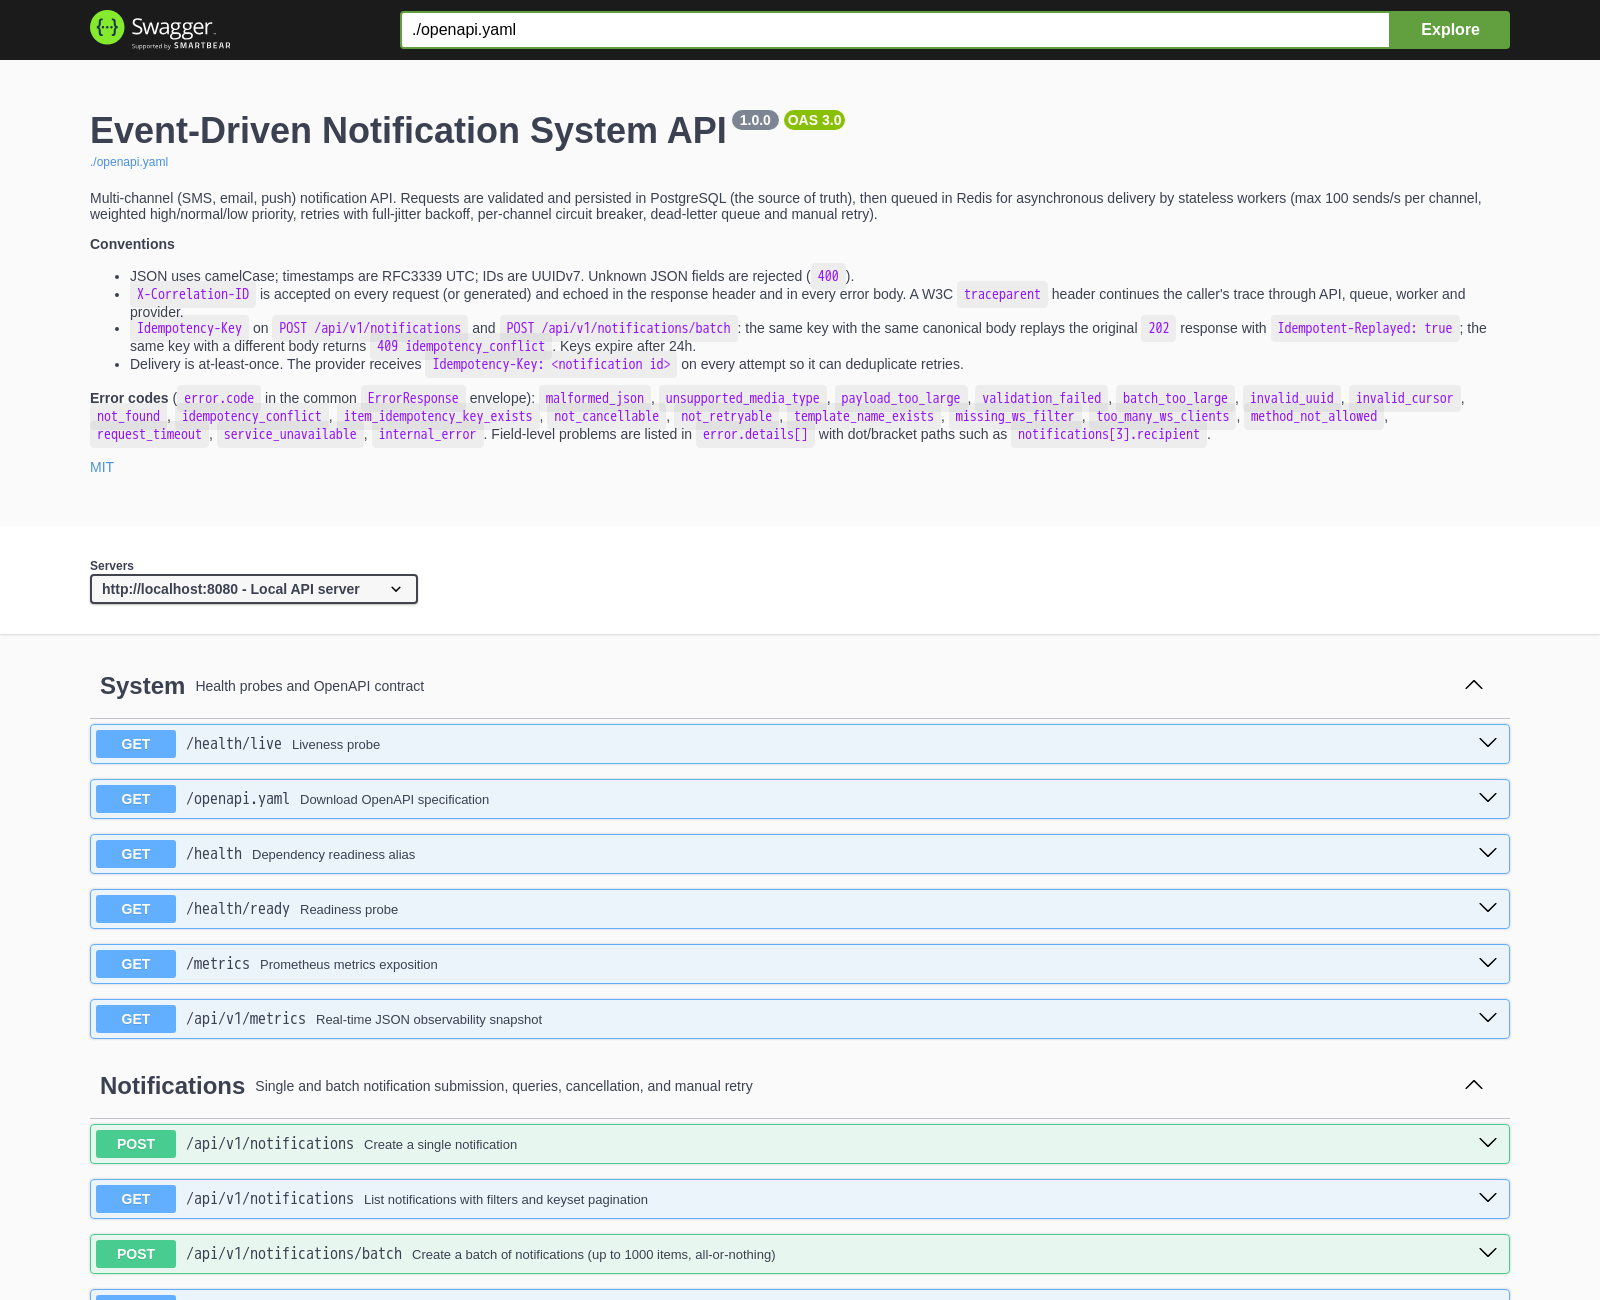
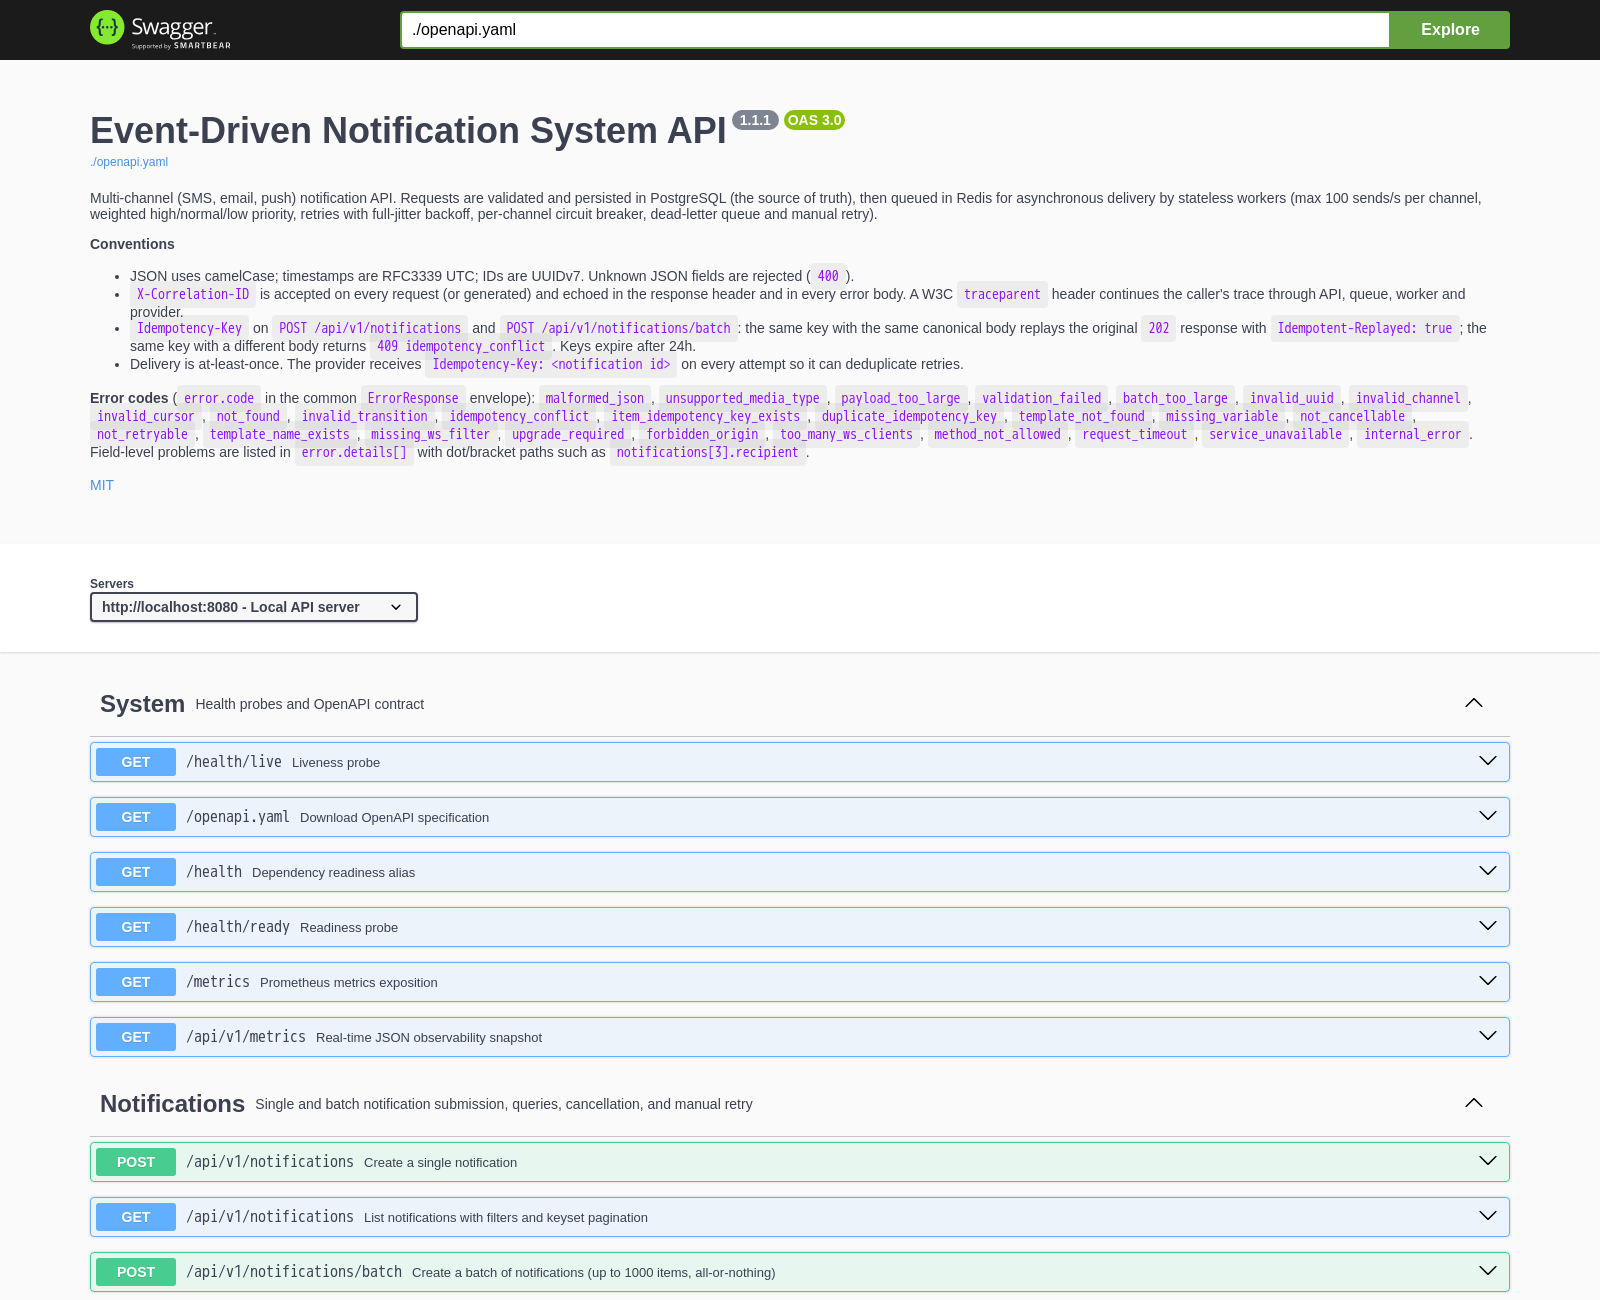
docs: fix the README sequence diagram and render-check all diagrams in CI; add an "At a glance" section; keep CLAUDE.md to the engineering spec
- The notification sequence diagram did not render on GitHub: `;` inside a
  Mermaid sequenceDiagram message is a statement separator. It also showed the
  rate-limit token taken before Claim; it is taken after Claim, right before
  the provider call.
- scripts/check-diagrams.sh renders every README Mermaid block with
  mermaid-cli 11.17.1; it runs as its own CI job, as a verify.sh step and as
  `make diagrams`.
- README opens with "At a glance": run and check commands, the key design
  decisions, and the test results.
- CLAUDE.md now holds only the engineering specification; personal working
  notes live in a local, gitignored file.
- Swagger UI screenshot regenerated from the current 1.1.1 spec.

diff --git a/CLAUDE.md b/CLAUDE.md
@@ -1,11 +1,12 @@
 # CLAUDE.md — Event-Driven Notification System
 
-## Engineering Role & Context
+## Purpose
 
-You are acting as a **Senior Go Engineer, Senior Software Architect, and AI/Engineering Mentor** for the **Insider One Software Engineer Assessment 2026** take-home assignment.
+The engineering specification for this service, written before the code and kept in sync with it.
+Every design decision here must be production-grade, verifiable and defensible in review: clarity,
+observability and explicit failure handling matter as much as throughput and correctness. Section 10
+records decisions that were measured and settled; the README explains the reasoning for readers.
 
-- **Primary Engineer Context:** AI/ML engineer (strong in Python, FastAPI, Docker) writing production Go (`1.2x`) for the first time.
-- **Core Mandate:** Every design decision and line of code must be **production-grade, verifiable, and interview-defensible**—clarity, observability, and explicit failure handling matter as much as throughput and correctness.
 - **Module Path:** `github.com/TITANBGG/notification-system`
 
 ---
@@ -160,7 +161,6 @@ db/queries/         # sqlc queries; sqlc.yaml at repo root
 api/openapi.yaml    # OpenAPI 3.0.3 spec (kept in sync every phase)
 deploy/             # prometheus.yml
 scripts/            # smoke.sh (curl examples for every endpoint)
-.notes/NOTES.md     # Turkish learning notes — in .gitignore, NEVER part of repo
 ```
 
 ### Pre-Approved Libraries
@@ -686,33 +686,19 @@ X-Correlation-ID: 7d3c...
 - **Database Tracing:** `github.com/exaring/otelpgx` on `pgxpool.Config`.
 - **Templates:** Small safe custom renderer (`regex` scan + `strings.Builder`, no `text/template`), soft delete (`deleted_at`), rendered at **create time** (Phase 9).
 - **Worker Tracing Relationship:** For a single notification the worker span is a **CHILD** of the API request span (clean end-to-end demo). For **batch items** the worker starts a **new trace linked** to the batch request span (`queue.Meta.TraceLink`, also derived from `batch_id` when the reconciler rebuilds metadata) — decided 2026-11-21 after measuring one 1,000-item batch trace at 28,013 spans (~145 MB in Jaeger), which made long load tests exhaust Docker Desktop's memory. Jaeger runs with `MEMORY_MAX_TRACES=20000` and `mem_limit: 1536m`.
-- **Learning Notes:** `.notes/NOTES.md` in Turkish, `.gitignore`d, **never** committed or pushed to GitHub.
 
 ---
 
-## 11. Workflow Rules
+## 11. Development Workflow
 
-1. **Scope Discipline:** Work **ONLY** on the active phase requested. Do not jump ahead.
-2. **Pre-Code Plan:** Before writing code in a phase, present a short plan (files to create/change, key decisions) in max 15 lines, then implement without waiting unless something is ambiguous.
-3. **Mandatory Verification:** After coding, **ALWAYS** run:
-   - `gofmt -l .`
-   - `go vet ./...`
-   - `go test -race ./...`
-   - (`golangci-lint run` if installed; integration tests when the phase specifies).
-   - Always show actual command output; never claim `"should work"` without running it.
-4. **API & Smoke Sync:** Every phase that adds or changes an HTTP endpoint must update `api/openapi.yaml` and `scripts/smoke.sh` in the **same** phase.
-5. **Requirement Traceability:** At the end of each phase, list which requirement IDs (`FR-*`, `EXT-1`, `B-*`, `D-*`) were covered and how they were tested.
-6. **Turkish Learning Notes:** Append a section to `.notes/NOTES.md` **IN TURKISH** at the end of each implementation phase (starting Phase 1) containing:
-   - `"Bu fazda ne yaptık"` (short summary)
-   - `"Kullanılan Go kavramları"` with tiny code snippets from our codebase
-   - `"Tasarım kararları ve alternatifleri"` (why X and not Y)
-   - `"Mülakatta sorulabilecek 5 soru ve kısa cevapları"`
-   - `"Kendin dene"` (1–2 small modification exercises)
-7. **Commit Governance:** At the end of each phase, propose 2–5 small **Conventional Commits** (`feat:`, `fix:`, `test:`, `docs:`, `chore:`, `ci:`, `refactor:`) with exact `git` commands. **Do NOT commit until the user explicitly types `"commit"`.** Never commit `.env`, `.notes/`, or secrets.
-8. **Stop-and-Ask Triggers:** Stop and ask the user instead of guessing when:
-   - a requirement is ambiguous;
-   - a change would deviate from `CLAUDE.md`;
-   - a dependency cannot be installed;
-   - a test still fails after 2 fix attempts;
-   - an issue would blow past the phase budget.
-9. **Language Split:** Explanations, discussions, and `.notes/NOTES.md` are written in **Turkish**; all code, comments, commit messages, OpenAPI specs, and `README.md` are written in **English**.
+1. **Verify every change:** `gofmt -l .`, `go vet ./...` (and `-tags=integration`), `golangci-lint run`,
+   `go test -race ./...`, and the integration suite when behavior across PostgreSQL/Redis changes.
+   With only Docker, `./scripts/verify.sh` runs all of it plus a live smoke test. Report actual output;
+   never claim something works without running it.
+2. **API & smoke sync:** any change to an HTTP endpoint updates `api/openapi.yaml` and `scripts/smoke.sh`
+   in the same change (`TestOpenAPISpecMatchesRouter` and Redocly enforce the spec).
+3. **Requirement traceability:** every change states which requirement IDs (`FR-*`, `EXT-1`, `B-*`,
+   `D-*`) it covers and how it was tested; README section 13 is the map.
+4. **Commits:** small Conventional Commits (`feat:`, `fix:`, `test:`, `docs:`, `chore:`, `ci:`,
+   `refactor:`, `perf:`). Never commit `.env` or secrets.
+5. **Language:** code, comments, commit messages, OpenAPI and `README.md` are written in English.

diff --git a/README.md b/README.md
@@ -8,6 +8,25 @@ A notification service that accepts SMS, email and push requests over HTTP, stor
 
 It was written in Go 1.27.4 for the Insider One Software Engineer Assessment 2026. Every functional requirement (`FR-1`…`FR-4`), the provider contract (`EXT-1`), all deliverables (`D-1`…`D-6`) and all six bonus features (`B-1`…`B-6`) are implemented and tested. Section 13, the [requirement checklist](#13-requirement-checklist), maps each one to its code and tests.
 
+## At a glance
+
+**Run and check it** (only Docker needed):
+
+```bash
+docker compose up                # API :8080, Swagger UI :8081, live demo :8080/demo, Jaeger :16686
+./scripts/verify.sh              # lint, unit + integration tests, then a smoke test of every endpoint
+```
+
+**Key design decisions** (the reasoning is in [section 4](#4-design-decisions)):
+
+- **PostgreSQL is the source of truth; Redis only holds hints.** Every notification is committed before it is queued. A reconciler rebuilds anything Redis loses, so a Redis failure delays notifications but loses none.
+- **Each state change is one conditional `UPDATE`.** A cancel racing a worker has exactly one winner, and a stale worker cannot overwrite a newer outcome (fenced on `attempts`).
+- **100 messages/s per channel across all replicas**, enforced by a GCRA limiter in Redis and taken right before each provider call.
+- **Retries with exponential backoff and full jitter** honor `Retry-After`. A circuit breaker per channel stops calls to a failing provider without using up attempts, and failures land in a dead-letter queue with manual replay.
+- **Delivery is at-least-once, and the README says so.** Each attempt sends `Idempotency-Key: <notification id>`; [section 5](#5-failure-scenarios) lists the remaining duplicate risks.
+
+**Tested beyond unit tests** ([summary](#test-program-summary)): a 100,000-notification flash sale, a chaos run of 84,000 notifications while workers were killed, Redis was flushed and PostgreSQL was stopped (0 lost), a 64 MB Redis filled past its limit, and a 60-minute soak (898,120 sent, no resource growth). This program found and fixed 12 bugs.
+
 ## Contents
 
 1. [Quick start](#1-quick-start)
@@ -112,15 +131,15 @@ sequenceDiagram
     participant W as Worker
     participant P as Provider
     C->>A: POST /api/v1/notifications (Idempotency-Key)
-    A->>DB: BEGIN; INSERT idempotency_keys + notifications (status=pending); COMMIT
+    A->>DB: one transaction: INSERT idempotency_keys + notifications (status=pending)
     A->>R: enqueue.lua (HSET {notif}:msg, LPUSH {notif}:q:sms:high)
     A-->>C: 202 Accepted {id, status: pending}
     W->>R: dequeue.lua (RPOP queue + LPUSH {notif}:inflight:worker-1)
-    W->>R: GCRA rate limiter (wait for a token on {notif}:rl:sms)
     W->>DB: Claim: UPDATE ... SET status=processing, attempts=attempts+1 WHERE status IN (...)
+    W->>R: GCRA rate limiter: wait for a token on {notif}:rl:sms, right before the send
     W->>P: POST {to, channel, content} + Idempotency-Key: <id>
     P-->>W: 202 {messageId, status: accepted}
-    W->>DB: INSERT delivery_attempts; UPDATE status=sent WHERE status=processing AND attempts=$claimed
+    W->>DB: INSERT delivery_attempts, then UPDATE status=sent WHERE status=processing AND attempts=$claimed
     W->>R: ack.lua (LREM inflight, HDEL msg) + PUBLISH notif:events
     R-->>A: notif:events
     A-->>C: WebSocket frame {type: event, status: sent}
@@ -1267,6 +1286,7 @@ make test-integration   # adds the Testcontainers suite (PostgreSQL 16 + Redis 7
 make test-all           # both
 make test-docker        # the same with only Docker (scripts/test-docker.sh)
 make verify             # one-command check: lint, unit, integration, stack up, smoke, invariants (scripts/verify.sh)
+make diagrams           # render every README Mermaid diagram with mermaid-cli (also in CI)
 make cover              # unit coverage -> coverage.html + per-package table
 make cover-all          # unit + integration coverage per internal package
 make lint               # gofmt, go vet, golangci-lint

diff --git a/CHANGELOG.md b/CHANGELOG.md
@@ -7,6 +7,24 @@ the pushed tag as the GitHub Release notes, so every `vX.Y.Z` tag needs a `## [X
 
 ## [Unreleased]
 
+### Fixed
+
+- The README's notification sequence diagram did not render on GitHub: a `;` inside a Mermaid
+  `sequenceDiagram` message is a statement separator. It also showed the rate-limit token taken before
+  `Claim`; it is taken after `Claim`, right before the provider call.
+
+### Added
+
+- CI renders every README Mermaid diagram with mermaid-cli (`scripts/check-diagrams.sh`, also a
+  `verify.sh` step), so a diagram that would not render fails the build.
+
+### Documentation
+
+- README opens with an "At a glance" section: how to run and check the system, the key design
+  decisions and the test results.
+- `CLAUDE.md` holds only the engineering specification.
+- Swagger UI screenshot shows the current spec (1.1.1).
+
 ## [1.1.1] - 2026-11-22
 
 API contract fixes from a pre-submission audit: the OpenAPI spec now matches every status code and
